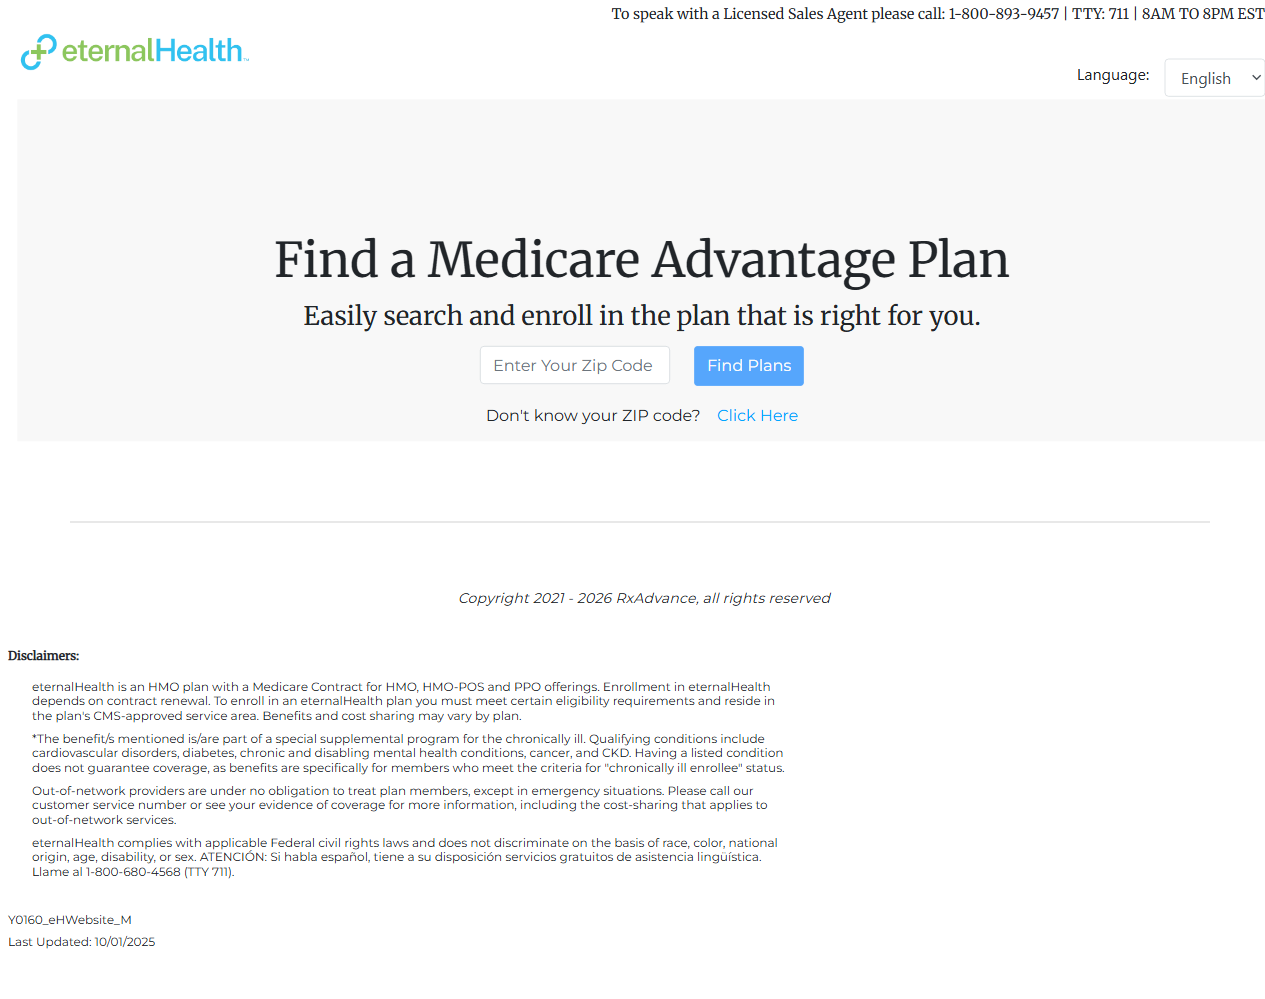
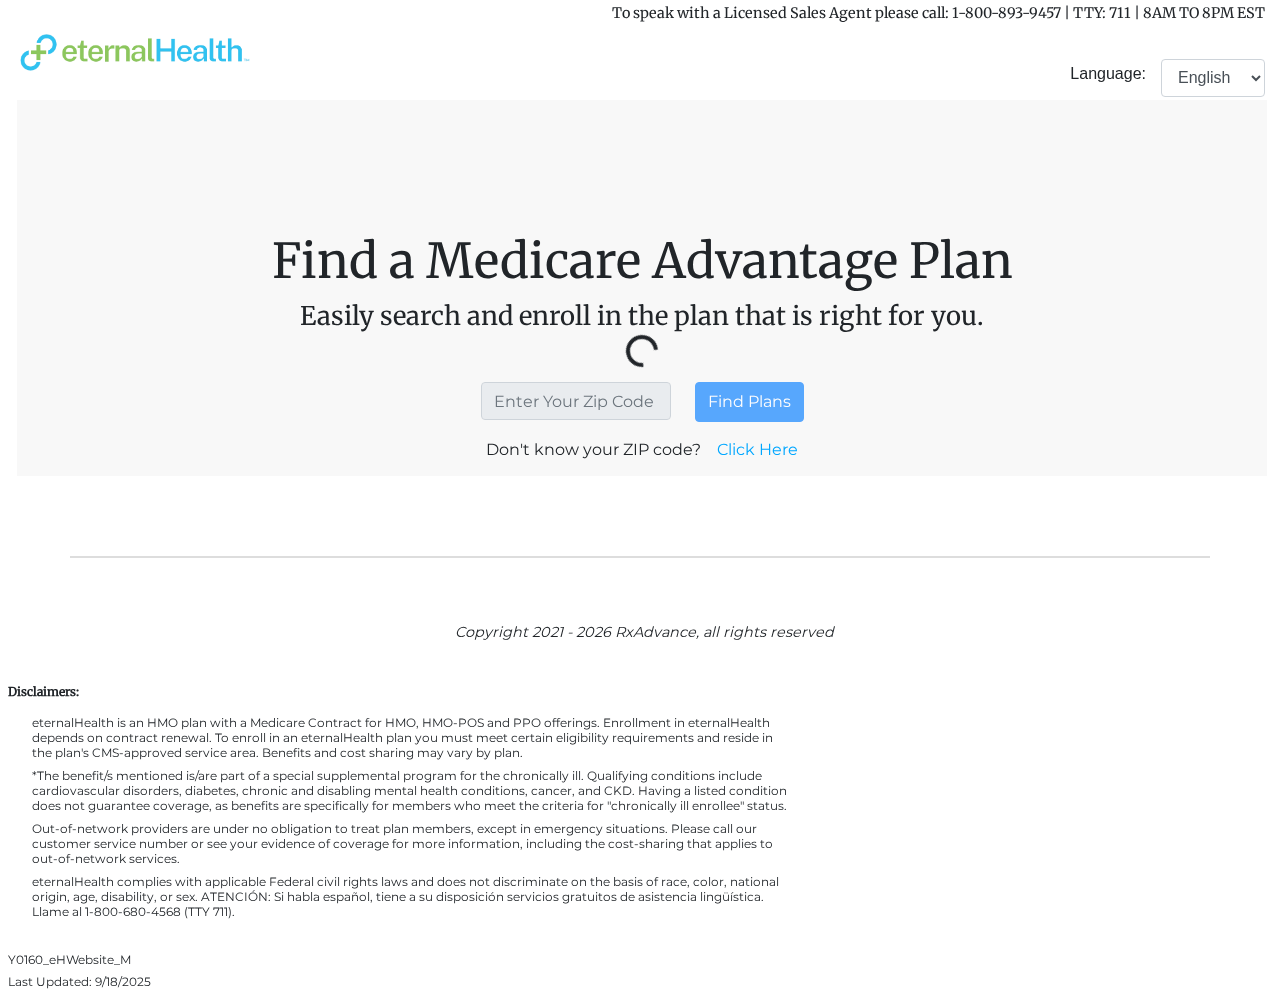
API Test Cases

diff --git a/tests/ProviderSearchAPI.spec.js b/tests/ProviderSearchAPI.spec.js
@@ -1,0 +1,34 @@
+import { test, expect, request } from '@playwright/test';
+
+const PCPPayload = {
+  CmsPlanId: "H2694001000",
+  NewLocation: "Southborough,MA,01772",
+    PageName: "PCP",
+    BusinessId: "110",
+    EnrollmentDate: "09/01/2026",
+    PcpOnly : true,
+    Location : "Southborough, MA 01772, USA",
+    Longitude : "-71.53678599999999",
+    Latitude : "42.3092759",
+    Miles : "10",
+    __RequestVerificationToken: "CfDJ8PeNyKHKrvVMudBEUnxljphJH_ewNC_n3Rjx9pgsHLNUTjfrVKVjATFhB4yi_X2XyC3qVkeW3ZpIJp0YLonR0SQncpXjhIQw3Y-WsLds2RMBONg0Is3AnPovYgBVJMEYwI_piDROzSTeRvkoKAi1rY0"
+
+}
+
+test('Validating FIND PCP API', async ({ browser, page }) => {
+
+  const apicontext = await request.newContext();
+  const response = await apicontext.get('https://nhconnect.eternalhealth.com/Provider/PublicPcpSearch?mode=E&planId=H2694001000&planName=&planYear=2026&enrollmentDate=09%2F01%2F2026&culture=en');
+  expect(response.ok()).toBeTruthy();
+})
+
+test.only('Validating Provider Search API', async ({ browser, page }) => {
+
+  const apicontext = await request.newContext();
+  const response = await apicontext.post('https://nhconnect.eternalhealth.com/Provider/SearchProviderList', {
+    data: PCPPayload
+  });
+  expect(response.ok()).toBeTruthy();
+})
+
+

diff --git a/tests/SSPLandingPage.spec.js b/tests/SSPLandingPage.spec.js
@@ -1,4 +1,4 @@
-import { test, expect } from '@playwright/test';
+import { test, expect, request } from '@playwright/test';
 
 const {POManager} = require('../PageObjects/POManager');
 // test.describe.configure({mode: "parallel"});  // to execute the tests in same file in parallel mode
@@ -49,7 +49,18 @@ test('Clicking Find Plans Button', async ({ browser, page }) => {
   
 })
 
-test.only('Dont know your ZIP code Functionality', async ({ browser, page }) => {
+test.only('Validating FIND Plans API', async ({ browser, page }) => {
+
+  const apicontext = await request.newContext();
+  const response = await apicontext.get('https://ehprd-api.eternalhealth.com/api/enrollment/lookups/GetPlansStatusByZip?businessId=110&zipCode=01772&planYear=2026');
+  expect(response.ok()).toBeTruthy();
+  const responseBody = await response.json();
+  console.log(responseBody);
+  
+  
+})
+
+test('Dont know your ZIP code Functionality', async ({ browser, page }) => {
 
   const POmanager = new POManager(page);
   const landingPage = POmanager.getLandingPage(); // Navigate to Self-Service Portal

diff --git a/playwright.service.config.js b/playwright.service.config.js
@@ -21,9 +21,9 @@ export default defineConfig(
     This configuration will replace any existing reporter settings from your base config.
     If you're already using other reporters, add them to this array.
     */
-    // reporter: [
-    //   ["html", { open: "never" }],
-    //   ["@azure/playwright/reporter"],
-    // ],
+     reporter: [
+       ["html", { open: "never" }],
+       ["@azure/playwright/reporter"],
+     ],
   }
 );

diff --git a/PageObjects/LandingPage.js b/PageObjects/LandingPage.js
@@ -14,7 +14,7 @@ class LandingPage{
 
     async goTo(){
 
-        await this.page.goto('https://qa-selfserviceportal.nirvanahealth.com/');
+        await this.page.goto('https://selfserviceportal.eternalhealth.com/');
         
         }
 
